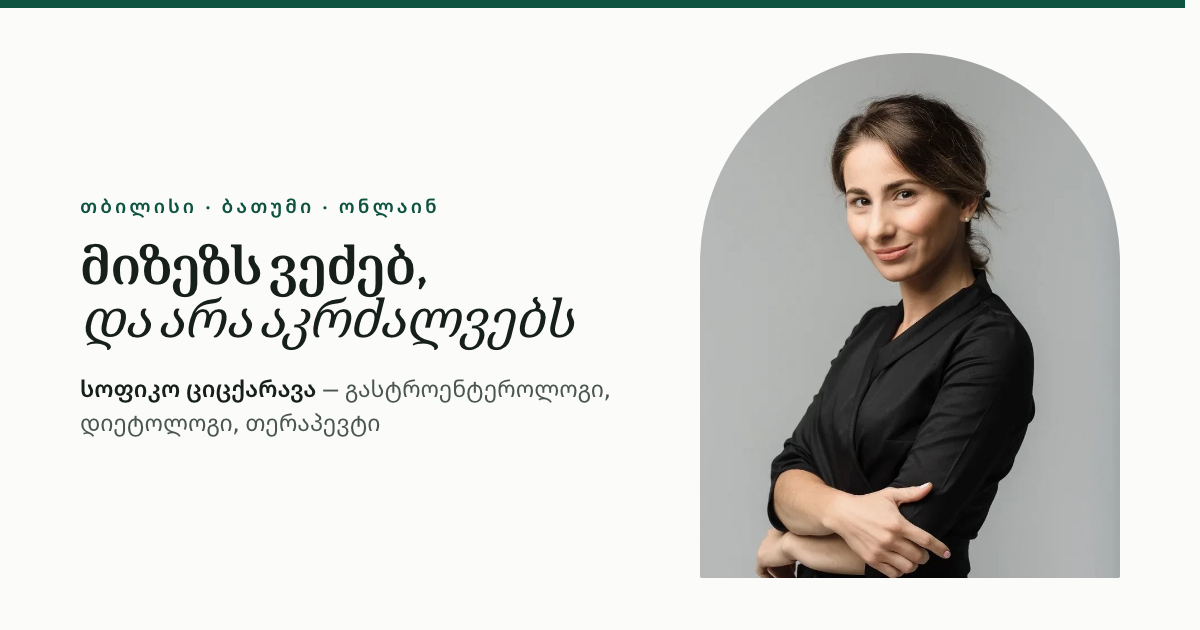
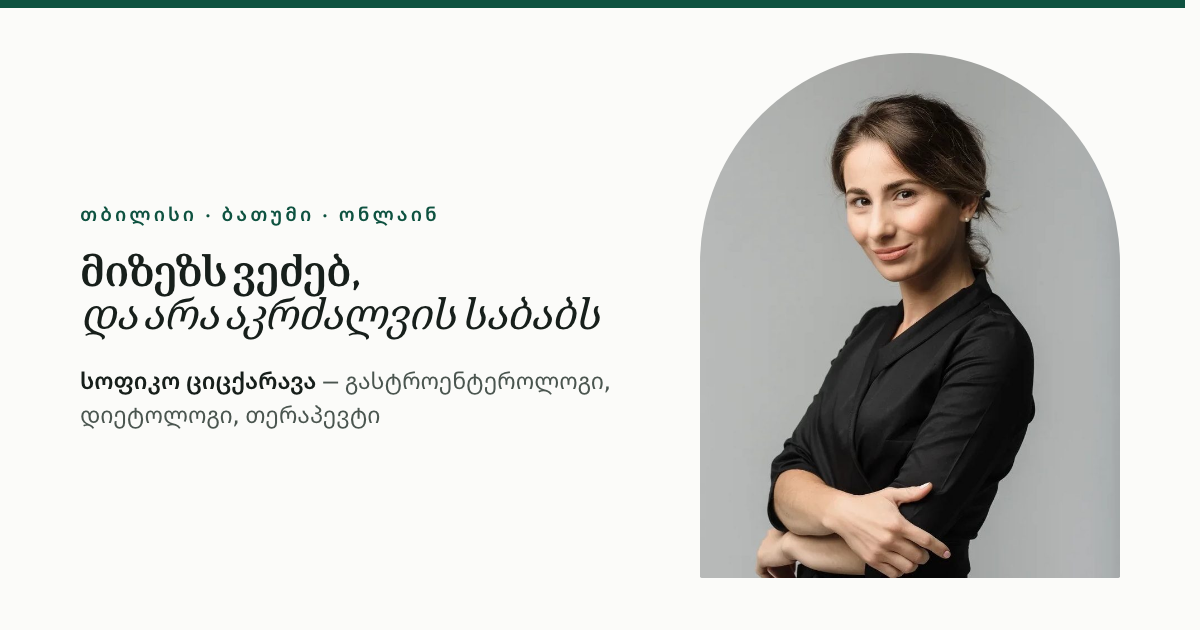
Слоган: «Ищу причину, а не повод запретить» — сайт, соцкартинки, кегль H1 по языкам

Changed region(s): [[0.0617, 0.3921, 0.5242, 0.6937], [0.0617, 0.3016, 0.37, 0.3619]]

diff --git a/index.html b/index.html
@@ -193,7 +193,7 @@
       </svg>
       <h1>
         <span class="h1-line"><span>მიზეზს ვეძებ,</span></span>
-        <span class="h1-line"><span><em>და არა აკრძალვებს</em></span></span>
+        <span class="h1-line"><span><em>და არა აკრძალვის საბაბს</em></span></span>
       </h1>
       <p class="lede">მე ვარ სოფიკო ციცქარავა — გასტროენტეროლოგი, დიეტოლოგი და თერაპევტი. ვეძებ გულძმარვის, შებერილობის, IBS-ის თუ წონის პრობლემების <b>მიზეზს</b> — და ვმკურნალობ მტკიცებულებებზე დაფუძნებული მედიცინით, „ყველაფრის აკრძალვის“ გარეშე. მიღება ქართულ, რუსულ და ინგლისურ ენებზე.</p>
       <p class="clinic-line">პაციენტებს <b>Caraps Medline</b>-ის კლინიკაში ვიღებ — დიღომი და ვაკე, თბილისი. ვმუშაობ ქართულ სადაზღვევოებთან.</p>

diff --git a/style.css b/style.css
@@ -307,8 +307,9 @@
      шире, и при общем кегле вторая строка разъезжается на три. Кегль
      первого экрана — свой для каждого языка, чтобы строки оставались
      целыми. Внутренних страниц не касается: у них h1.page-title. */
+  html[lang="ru"] h1:not(.page-title){font-size:clamp(34px,5vw,62px)}
   html[lang="en"] h1:not(.page-title){font-size:clamp(36px,5.4vw,68px)}
-  html[lang="ka"] h1:not(.page-title){font-size:clamp(32px,4.6vw,56px)}
+  html[lang="ka"] h1:not(.page-title){font-size:clamp(26px,3.6vw,44px)}
   /* Контейнер-обрезка для анимации появления строк. Межстрочье в h1
      плотное (1.02), поэтому даём хвостам букв ниже базовой линии
      дополнительное окно — иначе «y», запятые и грузинские глифы

diff --git a/ru/index.html b/ru/index.html
@@ -192,7 +192,7 @@
       </svg>
       <h1>
         <span class="h1-line"><span>Ищу причину,</span></span>
-        <span class="h1-line"><span><em>а не запреты</em></span></span>
+        <span class="h1-line"><span><em>а не повод запретить</em></span></span>
       </h1>
       <p class="lede">Я — Софико Цицкарава, гастроэнтеролог, диетолог и терапевт. Ищу <b>причину</b> изжоги, вздутия, СРК или проблем с весом — и лечу по доказательной медицине, без запретов «на всё». Приём на русском, грузинском и английском.</p>
       <p class="clinic-line">Принимаю в клинике <b>Caraps Medline</b> — Дигоми и Ваке, Тбилиси. Работаю с грузинскими страховыми.</p>

diff --git a/en/index.html b/en/index.html
@@ -194,7 +194,7 @@
       </svg>
       <h1>
         <span class="h1-line"><span>I look for the cause,</span></span>
-        <span class="h1-line"><span><em>not for bans</em></span></span>
+        <span class="h1-line"><span><em>not a reason to forbid</em></span></span>
       </h1>
       <p class="lede">I'm Sofiko Tsitskarava — a gastroenterologist, dietitian and internist. I look for the <b>cause</b> of heartburn, bloating, IBS or weight problems — and treat it with evidence-based medicine, without putting “everything” off-limits. Consultations in Russian, Georgian and English.</p>
       <p class="clinic-line">I see patients at <b>Caraps Medline</b> — Digomi and Vake, Tbilisi. I accept Georgian insurance.</p>
